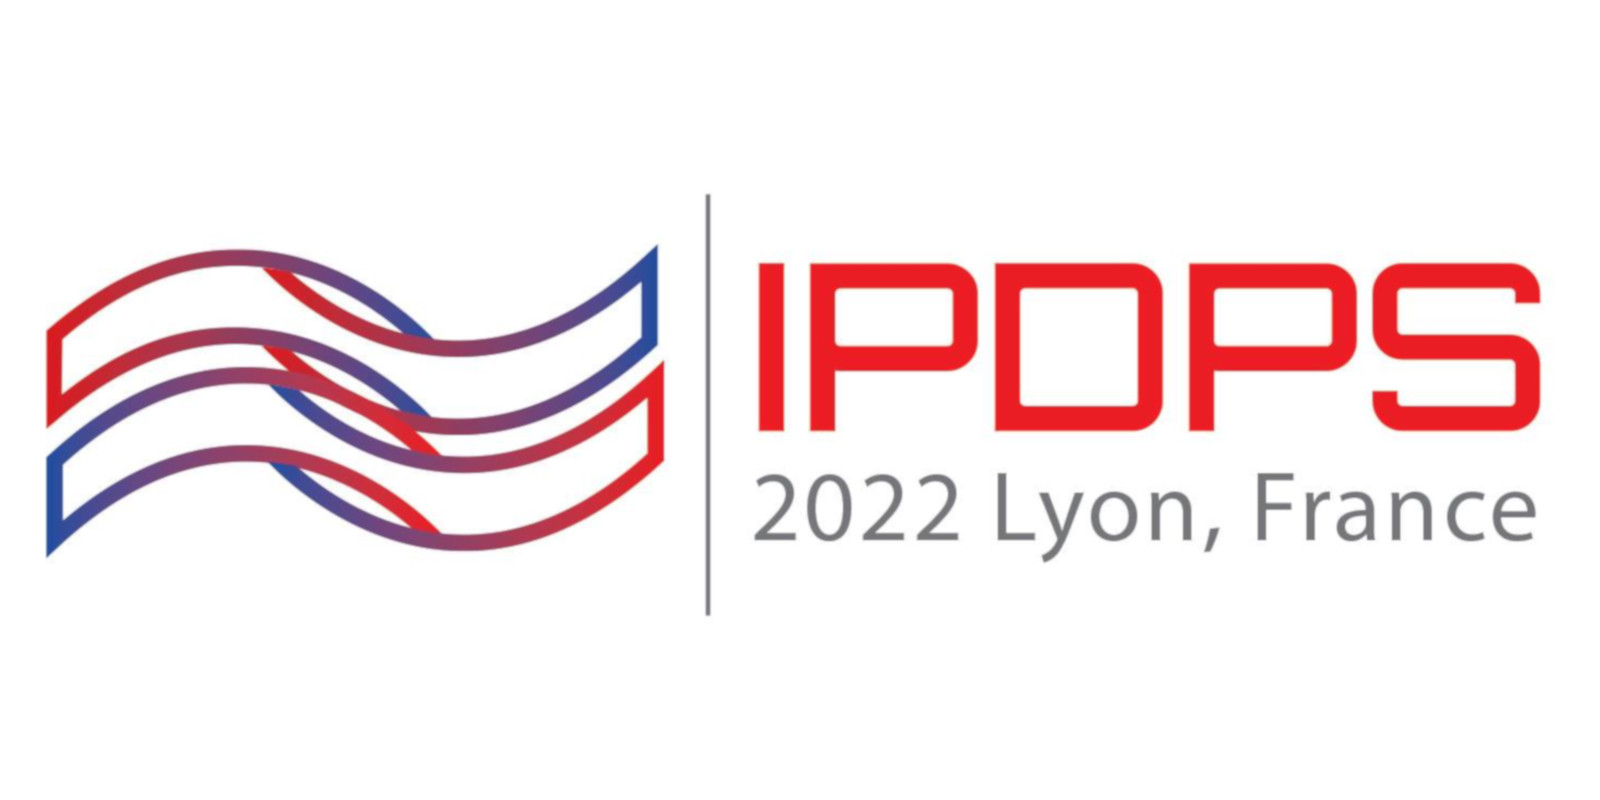
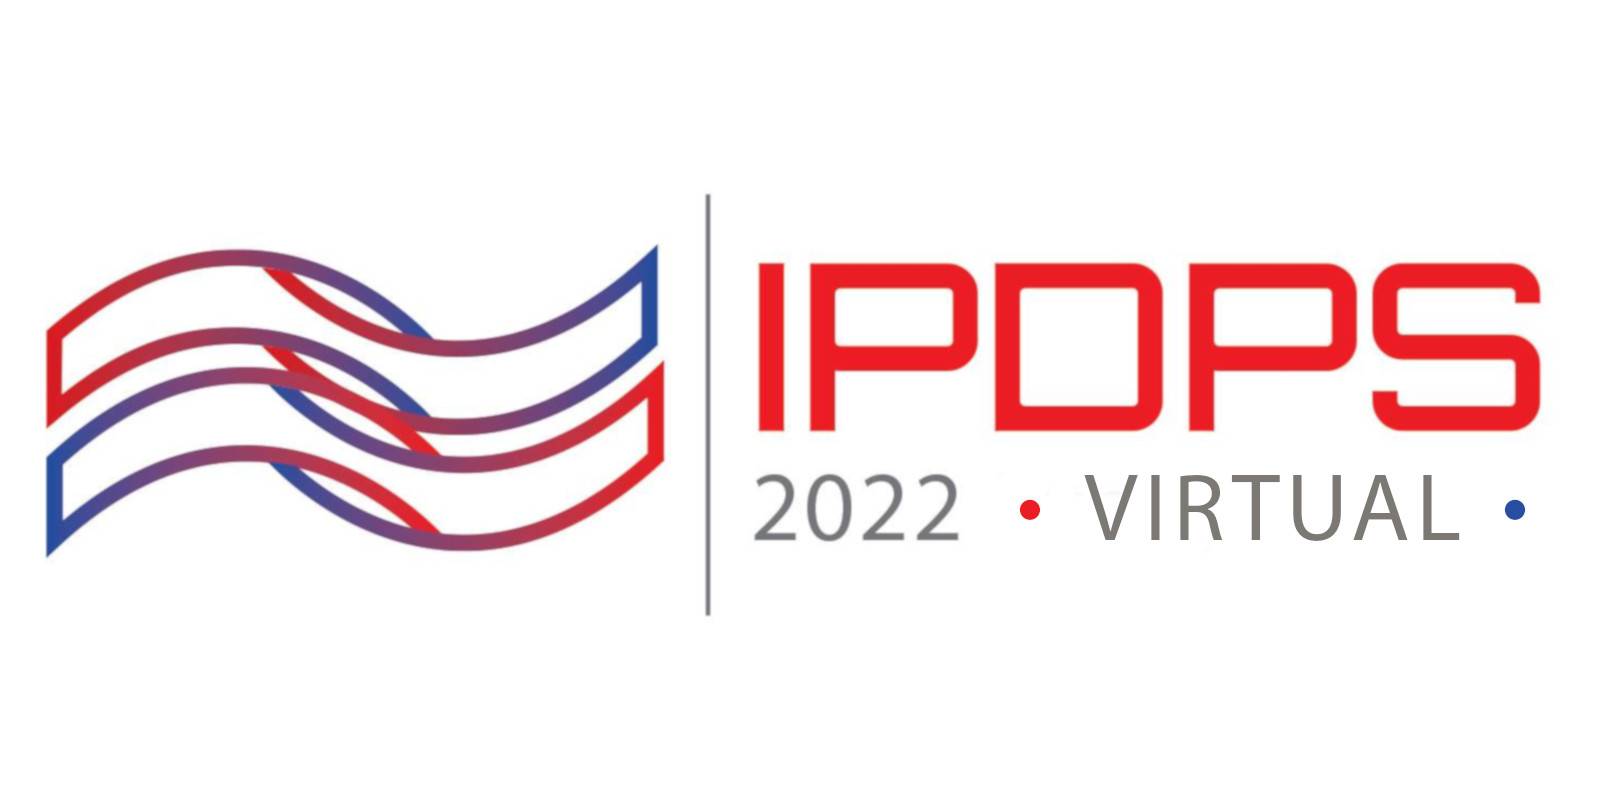
Lyon -> Virtual

Changed region(s): [[0.625, 0.5938, 0.9688, 0.6875]]

diff --git a/2022/_layouts/default.html b/2022/_layouts/default.html
@@ -24,7 +24,7 @@
           <div id="subtitle" align="center">
             <br>To be held in conjunction with
             <br><font color="#FFF" style="font-weight: bold;" >36th IEEE International Parallel and Distributed Processing Symposium in 
-            <br> Lyon, France (May 30-June 3, 2022)</font>
+            <br> Virtual (May 30-June 3, 2022)</font>
           </div>
         </td>
       	<td width=“10%”><div align="left"><a href="http://www.ipdps.org">
